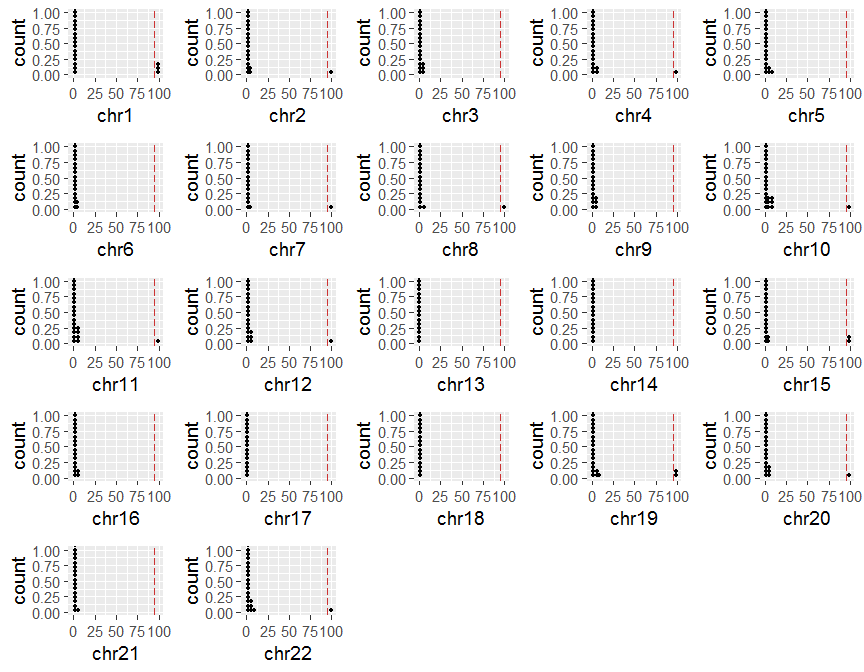
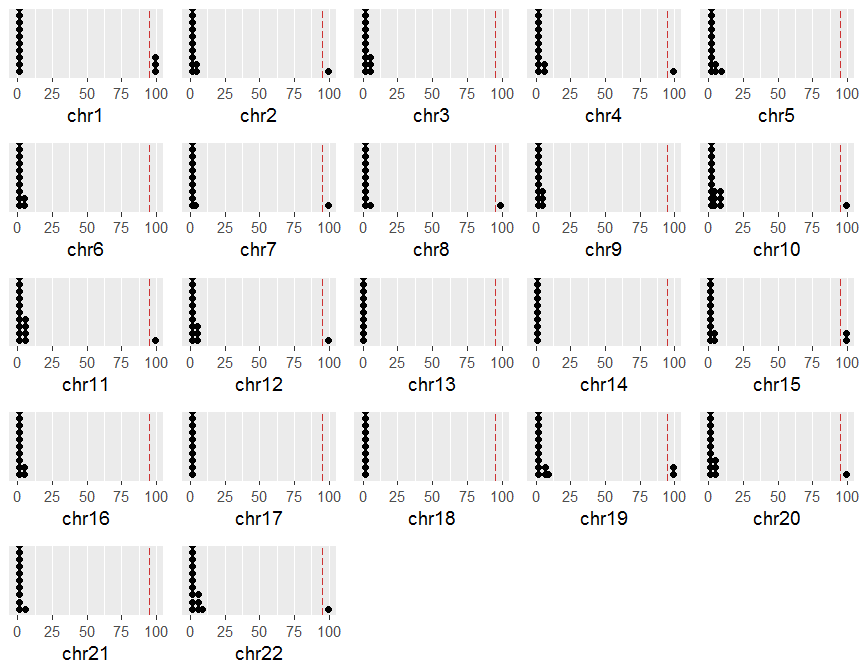
2019-04-01 update

diff --git a/README.md b/README.md
@@ -24,12 +24,12 @@ If you want to cite us, please use :
 
 > Yauy K., de Leeuw N., Gilissen C. and Pfundt R., UPDive : Uniparental disomy identification pipeline validated for exome sequencing with 27923 samples. (2019)
 
-Date of publication : 2019-03-25
+Date of publication : 2019-04-01
 
 Library
 -------
 
-Analysis have been realised with R 3.5.1, H3M2 (v2019.12.19) and UPDio V1.0.
+Analysis have been realized with R 3.5.1, H3M2 (v2019.12.19) and UPDio V1.0.
 
 ``` r
 # Data processing
@@ -211,7 +211,7 @@ my_plots_mad <- lapply(names(df.nlog10.plot), function(var_x){
     xlim(-1, 100) 
   
   if(is.numeric(df.nlog10.plot[[var_x]])) {
-    p <- p + geom_dotplot(dotsize = 1.5)   + theme_gray(base_size = 14) + theme(legend.justification=c(1,0), legend.position=c(1,0)) + geom_vline(xintercept = 95, colour="brown3", linetype = "longdash", show.legend=TRUE) 
+    p <- p + geom_dotplot(dotsize = 1.5)   + theme_gray(base_size = 14) + theme(legend.justification=c(1,0), legend.position=c(1,0)) + geom_vline(xintercept = 95, colour="brown3", linetype = "longdash") +  scale_y_continuous(name = NULL, breaks = NULL)
   } else {
     p <- p + geom_bar()
   } 
@@ -375,8 +375,8 @@ Karyotype plot
 #jpeg("karyoplot.jpg", width = 900, height = 1200,type="windows", quality=100,res=125)
 
 
-# iupd complete #20639B segmental #3CAEA3
-# hupd complete #ED553B segmental #F6D55C
+# iupd complete #20639B optional #3CAEA3
+# hupd complete #ED553B optional #F6D55C
 kp <- plotKaryotype(chromosomes="autosomal", plot.type = 1)
 
 #chr1
@@ -386,10 +386,10 @@ kpRect(kp, chr="chr1", x0=0, x1=250e6, y0=0.4, y1=0.5,col="#20639B",border=NA)
 
 #chr2
 kpRect(kp, chr="chr2", x0=0, x1=245e6, y0=0, y1=0.1,col="#20639B",border=NA)
-kpRect(kp, chr="chr2", x0=80e6, x1=245e6, y0=0.2, y1=0.3 ,col="#F6D55C",border=NA)
+kpRect(kp, chr="chr2", x0=80e6, x1=245e6, y0=0.2, y1=0.3 ,col="#ED553B",border=NA)
 
 #chr3
-kpRect(kp, chr="chr3", x0=120e6, x1=190e6, y0=0, y1=0.1,col="#F6D55C",border=NA)
+kpRect(kp, chr="chr3", x0=120e6, x1=190e6, y0=0, y1=0.1,col="#ED553B",border=NA)
 
 #chr4
 kpRect(kp, chr="chr4", x0=0, x1=190e6, y0=0, y1=0.1,col="#20639B",border=NA)
@@ -400,26 +400,26 @@ kpRect(kp, chr="chr7", x0=0, x1=160e6, y0=0.2, y1=0.3,col="#ED553B",border=NA)
 
 #chr8
 kpRect(kp, chr="chr8", x0=0, x1=145e6, y0=0, y1=0.1,col="#20639B",border=NA)
-kpRect(kp, chr="chr8", x0=75e6, x1=145e6, y0=0.2, y1=0.3,col="#F6D55C",border=NA)
+kpRect(kp, chr="chr8", x0=75e6, x1=145e6, y0=0.2, y1=0.3,col="#ED553B",border=NA)
 
 #chr10
 kpRect(kp, chr="chr10", x0=0, x1=140e6, y0=0, y1=0.1,col="#20639B",border=NA)
 
 #chr11
-kpRect(kp, chr="chr11", x0=10e6, x1=120e6, y0=0, y1=0.1,col="#3CAEA3",border=NA)
+kpRect(kp, chr="chr11", x0=10e6, x1=120e6, y0=0, y1=0.1,col="#20639B",border=NA)
 
 #chr12
 kpRect(kp, chr="chr12", x0=0, x1=133e6, y0=0, y1=0.1,col="#20639B",border=NA)
 
 #chr13
-kpRect(kp, chr="chr13", x0=90e6, x1=110e6, y0=0, y1=0.1,col="#F6D55C",border=NA)
+kpRect(kp, chr="chr13", x0=90e6, x1=110e6, y0=0, y1=0.1,col="#ED553B",border=NA)
 
 #chr15
 kpRect(kp, chr="chr15", x0=0, x1=100e6, y0=0, y1=0.1,col="#20639B",border=NA)
-kpRect(kp, chr="chr15", x0=30e6, x1=90e6, y0=0.2, y1=0.3,col="#3CAEA3",border=NA)
+kpRect(kp, chr="chr15", x0=30e6, x1=90e6, y0=0.2, y1=0.3,col="#20639B",border=NA)
 
 #chr16
-kpRect(kp, chr="chr16", x0=0, x1=15e6, y0=0, y1=0.1,col="#F6D55C",border=NA)
+kpRect(kp, chr="chr16", x0=0, x1=15e6, y0=0, y1=0.1,col="#ED553B",border=NA)
 
 #chr19
 kpRect(kp, chr="chr19", x0=0, x1=60e6, y0=0, y1=0.1,col="#20639B",border=NA)
@@ -430,7 +430,7 @@ kpRect(kp, chr="chr20", x0=0, x1=60e6, y0=0, y1=0.1,col="#20639B",border=NA)
 
 #chr22
 kpRect(kp, chr="chr22", x0=0, x1=50e6, y0=0, y1=0.1,col="#20639B",border=NA)
-kpRect(kp, chr="chr22", x0=30e6, x1=50e6, y0=0.2, y1=0.3,col="#F6D55C",border=NA)
+kpRect(kp, chr="chr22", x0=30e6, x1=50e6, y0=0.2, y1=0.3,col="#ED553B",border=NA)
 ```
 
 ![](README_files/figure-markdown_github/unnamed-chunk-32-1.png)
